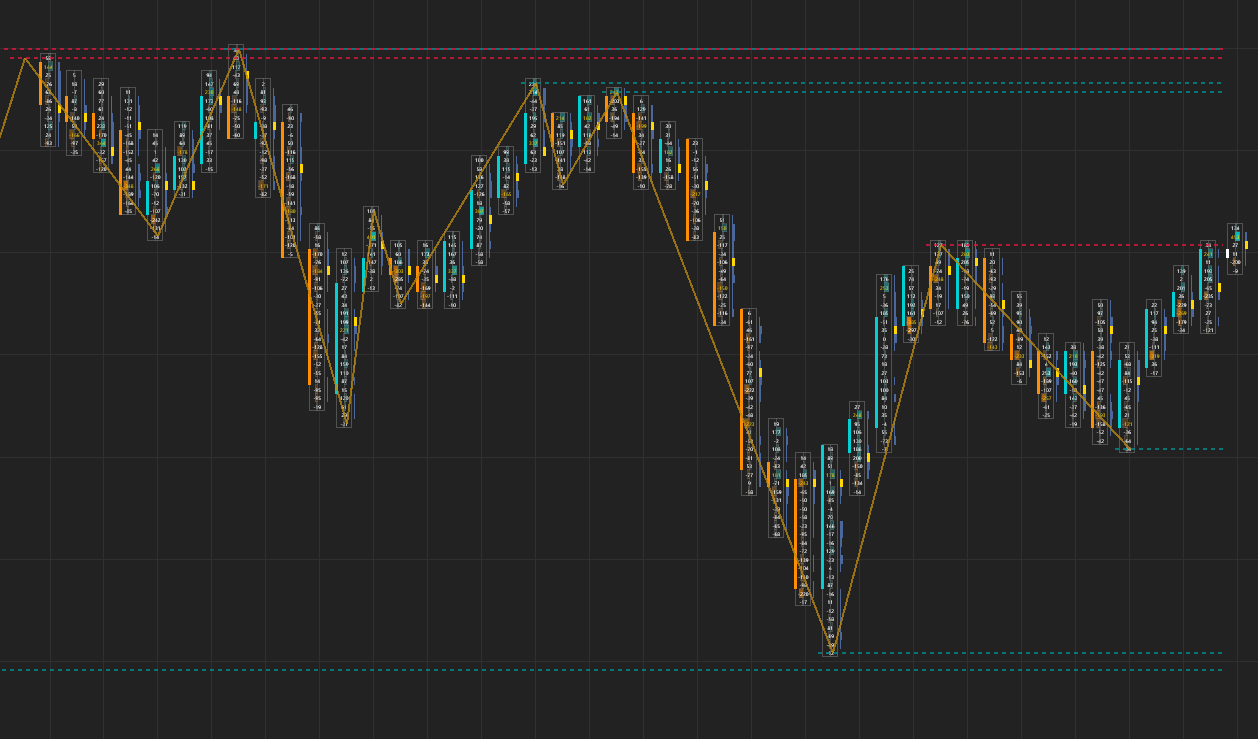
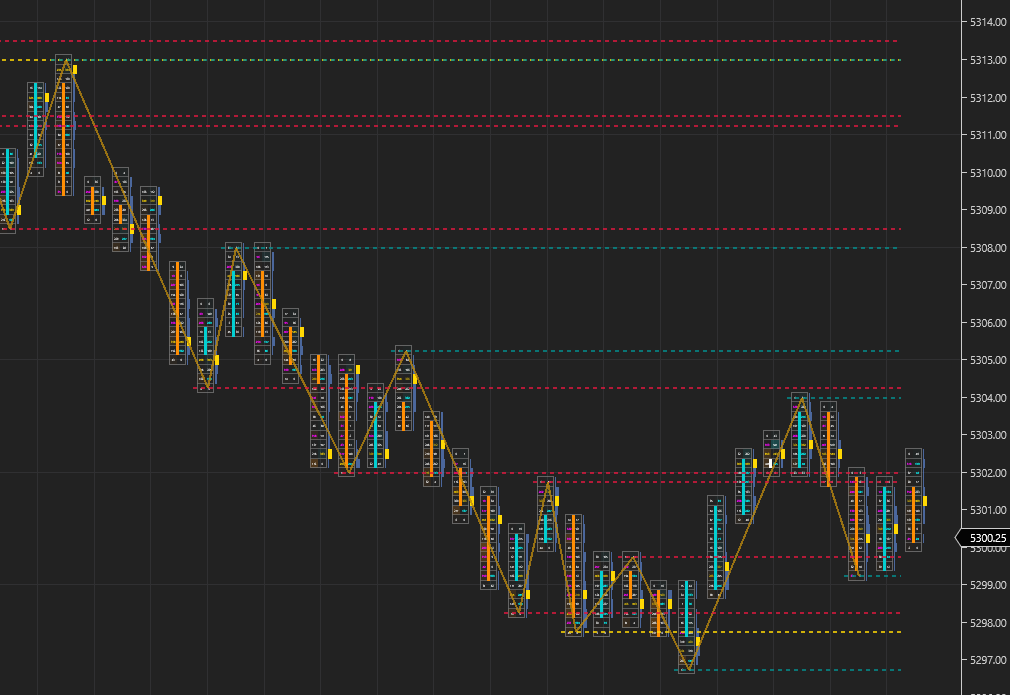
Added lookback periods

diff --git a/OpenAutoTrendSupportResistance.cs b/OpenAutoTrendSupportResistance.cs
@@ -20,6 +20,7 @@ namespace NinjaTrader.NinjaScript.Indicators
         public bool IsHigh { get; set; }
         public bool DisplayLevel { get; set; }
         public bool IsLevelTested { get; set; }
+        public bool IsLevelBroken { get; set; }
 
         public PivotPoint(int barNumber, double price, double close, bool isHigh)
         {
@@ -29,6 +30,7 @@ namespace NinjaTrader.NinjaScript.Indicators
             IsHigh = isHigh;
             DisplayLevel = true;
             IsLevelTested = false;
+            IsLevelBroken = false;
         }
     }
 
@@ -39,6 +41,7 @@ namespace NinjaTrader.NinjaScript.Indicators
         private Brush _trendLineColor;
         private Brush _levelLineColor;
         private Brush _testLineColor;
+        private Brush _brokenLineColor;
 
         private List<PivotPoint> _pivots = new List<PivotPoint>();
         private PivotPoint _currentPivot = null;
@@ -111,12 +114,36 @@ namespace NinjaTrader.NinjaScript.Indicators
         }
 
         [NinjaScriptProperty]
-        [Display(Name = "Trend Line Opacity", Description = "The opacity for the trend line. (0 to 255)", Order = 7, GroupName = GROUP_NAME)]
+        [XmlIgnore]
+        [Display(Name = "Broken Level Line Color", Description = "The broken level line color.", Order = 7, GroupName = GROUP_NAME)]
+        public Brush BrokenLevelLineColor
+        {
+            get { return _brokenLineColor; }
+            set { _brokenLineColor = value; }
+        }
+
+        [Browsable(false)]
+        public string BrokenLevelLineColorSerialize
+        {
+            get { return Serialize.BrushToString(_brokenLineColor); }
+            set { _brokenLineColor = Serialize.StringToBrush(value); }
+        }
+
+        [NinjaScriptProperty]
+        [Display(Name = "Trend Line Opacity", Description = "The opacity for the trend line. (0 to 255)", Order = 8, GroupName = GROUP_NAME)]
         public byte TrendLineOpacity { get; set; }
 
         [NinjaScriptProperty]
-        [Display(Name = "Level Line Opacity", Description = "The opacity for the level line and test level line. (0 to 255)", Order = 8, GroupName = GROUP_NAME)]
+        [Display(Name = "Level Line Opacity", Description = "The opacity for the level line and test level line. (0 to 255)", Order = 9, GroupName = GROUP_NAME)]
         public byte LevelLineOpacity { get; set; }
+
+        [NinjaScriptProperty]
+        [Display(Name = "Lookback Period SR Levels", Description = "Untested, tested and broken pivot points will display back to this value. If zero, only untested and tested will display.", Order = 10, GroupName = GROUP_NAME)]
+        public int LookbackPeriodSRLevels { get; set; }
+
+        [NinjaScriptProperty]
+        [Display(Name = "Lookback Period Broken SR Levels", Description = "Broken pivot points will display back to this value. If zero, no broken levels will display.", Order = 11, GroupName = GROUP_NAME)]
+        public int LookbackPeriodBrokenSRLevels { get; set; }
 
         protected override void OnStateChange()
         {
@@ -145,7 +172,11 @@ namespace NinjaTrader.NinjaScript.Indicators
 
                 TrendLineColor = Brushes.DarkGoldenrod;
                 LevelLineColor = Brushes.DarkCyan;
-                TestLevelLineColor = Brushes.Crimson;
+                TestLevelLineColor = Brushes.Gold;
+                BrokenLevelLineColor = Brushes.Crimson;
+
+                LookbackPeriodSRLevels = 0;
+                LookbackPeriodBrokenSRLevels = 50;
             }
             else if (State == State.DataLoaded)
             {
@@ -209,11 +240,13 @@ namespace NinjaTrader.NinjaScript.Indicators
                 // Check for resistance
                 else if (pivot.IsHigh && previousHigh > pivot.Price + _requiredTicksForBroken)
                 {
+                    pivot.IsLevelBroken = true;
                     pivot.DisplayLevel = false;
                 }
                 // Check for support
                 else if (!pivot.IsHigh && previousLow < pivot.Price - _requiredTicksForBroken)
                 {
+                    pivot.IsLevelBroken = true;
                     pivot.DisplayLevel = false;
                 }
             }
@@ -265,9 +298,11 @@ namespace NinjaTrader.NinjaScript.Indicators
             var trendLineColor = ConvertToDxColor(TrendLineColor, TrendLineOpacity);
             var levelLineColor = ConvertToDxColor(LevelLineColor, LevelLineOpacity);
             var testLineColor = ConvertToDxColor(TestLevelLineColor, LevelLineOpacity);
+            var brokenLineColor = ConvertToDxColor(BrokenLevelLineColor, LevelLineOpacity);
 
             using (var levelLineBrush = new SharpDX.Direct2D1.SolidColorBrush(RenderTarget, levelLineColor))
-            using (var brokenLineBrush = new SharpDX.Direct2D1.SolidColorBrush(RenderTarget, testLineColor))
+            using (var testLineBrush = new SharpDX.Direct2D1.SolidColorBrush(RenderTarget, testLineColor))
+            using (var brokenLineBrush = new SharpDX.Direct2D1.SolidColorBrush(RenderTarget, brokenLineColor))
             using (SharpDX.Direct2D1.SolidColorBrush dxBrush = new SharpDX.Direct2D1.SolidColorBrush(RenderTarget, trendLineColor))
             {
                 if (DisplayTrendLine)
@@ -288,11 +323,40 @@ namespace NinjaTrader.NinjaScript.Indicators
 
                 if (DisplayLevels)
                 {
-                    foreach (var pivot in _pivots)
+                    // Display all pivots up to LookbackPeriodSRLevels
+                    if (LookbackPeriodSRLevels != 0)
                     {
-                        if (pivot.DisplayLevel)
+                        foreach (var pivot in _pivots)
                         {
-                            DrawHorizontalLine(chartControl, chartScale, pivot, pivot.IsLevelTested ? brokenLineBrush : levelLineBrush);
+                            if (pivot.BarNumber >= CurrentBar - LookbackPeriodSRLevels && pivot.BarNumber <= CurrentBar)
+                            {
+                                if (pivot.IsLevelBroken)
+                                {
+                                    DrawHorizontalLine(chartControl, chartScale, pivot, brokenLineBrush);
+                                }
+                                else
+                                {
+                                    DrawHorizontalLine(chartControl, chartScale, pivot, pivot.IsLevelTested ? testLineBrush : levelLineBrush);
+                                }
+                            }
+                        }
+                    }
+                    // Display only untested and tested pivots
+                    else
+                    {
+                        foreach (var pivot in _pivots)
+                        {
+                            if (pivot.BarNumber >= CurrentBar - LookbackPeriodBrokenSRLevels && pivot.BarNumber <= CurrentBar || pivot.DisplayLevel)
+                            {
+                                if (pivot.IsLevelBroken)
+                                {
+                                    DrawHorizontalLine(chartControl, chartScale, pivot, brokenLineBrush);
+                                }
+                                else
+                                {
+                                    DrawHorizontalLine(chartControl, chartScale, pivot, pivot.IsLevelTested ? testLineBrush : levelLineBrush);
+                                }
+                            }
                         }
                     }
                 }
@@ -333,18 +397,18 @@ namespace NinjaTrader.NinjaScript.Indicators
 	public partial class Indicator : NinjaTrader.Gui.NinjaScript.IndicatorRenderBase
 	{
 		private OpenAutoTrendSupportResistance[] cacheOpenAutoTrendSupportResistance;
-		public OpenAutoTrendSupportResistance OpenAutoTrendSupportResistance(float rightOffset, float requiredTicksForBroken, bool displayTrendLine, bool displayLevels, Brush trendLineColor, Brush levelLineColor, Brush testLevelLineColor, byte trendLineOpacity, byte levelLineOpacity)
+		public OpenAutoTrendSupportResistance OpenAutoTrendSupportResistance(float rightOffset, float requiredTicksForBroken, bool displayTrendLine, bool displayLevels, Brush trendLineColor, Brush levelLineColor, Brush testLevelLineColor, Brush brokenLevelLineColor, byte trendLineOpacity, byte levelLineOpacity, int lookbackPeriodSRLevels, int lookbackPeriodBrokenSRLevels)
 		{
-			return OpenAutoTrendSupportResistance(Input, rightOffset, requiredTicksForBroken, displayTrendLine, displayLevels, trendLineColor, levelLineColor, testLevelLineColor, trendLineOpacity, levelLineOpacity);
+			return OpenAutoTrendSupportResistance(Input, rightOffset, requiredTicksForBroken, displayTrendLine, displayLevels, trendLineColor, levelLineColor, testLevelLineColor, brokenLevelLineColor, trendLineOpacity, levelLineOpacity, lookbackPeriodSRLevels, lookbackPeriodBrokenSRLevels);
 		}
 
-		public OpenAutoTrendSupportResistance OpenAutoTrendSupportResistance(ISeries<double> input, float rightOffset, float requiredTicksForBroken, bool displayTrendLine, bool displayLevels, Brush trendLineColor, Brush levelLineColor, Brush testLevelLineColor, byte trendLineOpacity, byte levelLineOpacity)
+		public OpenAutoTrendSupportResistance OpenAutoTrendSupportResistance(ISeries<double> input, float rightOffset, float requiredTicksForBroken, bool displayTrendLine, bool displayLevels, Brush trendLineColor, Brush levelLineColor, Brush testLevelLineColor, Brush brokenLevelLineColor, byte trendLineOpacity, byte levelLineOpacity, int lookbackPeriodSRLevels, int lookbackPeriodBrokenSRLevels)
 		{
 			if (cacheOpenAutoTrendSupportResistance != null)
 				for (int idx = 0; idx < cacheOpenAutoTrendSupportResistance.Length; idx++)
-					if (cacheOpenAutoTrendSupportResistance[idx] != null && cacheOpenAutoTrendSupportResistance[idx].RightOffset == rightOffset && cacheOpenAutoTrendSupportResistance[idx].RequiredTicksForBroken == requiredTicksForBroken && cacheOpenAutoTrendSupportResistance[idx].DisplayTrendLine == displayTrendLine && cacheOpenAutoTrendSupportResistance[idx].DisplayLevels == displayLevels && cacheOpenAutoTrendSupportResistance[idx].TrendLineColor == trendLineColor && cacheOpenAutoTrendSupportResistance[idx].LevelLineColor == levelLineColor && cacheOpenAutoTrendSupportResistance[idx].TestLevelLineColor == testLevelLineColor && cacheOpenAutoTrendSupportResistance[idx].TrendLineOpacity == trendLineOpacity && cacheOpenAutoTrendSupportResistance[idx].LevelLineOpacity == levelLineOpacity && cacheOpenAutoTrendSupportResistance[idx].EqualsInput(input))
+					if (cacheOpenAutoTrendSupportResistance[idx] != null && cacheOpenAutoTrendSupportResistance[idx].RightOffset == rightOffset && cacheOpenAutoTrendSupportResistance[idx].RequiredTicksForBroken == requiredTicksForBroken && cacheOpenAutoTrendSupportResistance[idx].DisplayTrendLine == displayTrendLine && cacheOpenAutoTrendSupportResistance[idx].DisplayLevels == displayLevels && cacheOpenAutoTrendSupportResistance[idx].TrendLineColor == trendLineColor && cacheOpenAutoTrendSupportResistance[idx].LevelLineColor == levelLineColor && cacheOpenAutoTrendSupportResistance[idx].TestLevelLineColor == testLevelLineColor && cacheOpenAutoTrendSupportResistance[idx].BrokenLevelLineColor == brokenLevelLineColor && cacheOpenAutoTrendSupportResistance[idx].TrendLineOpacity == trendLineOpacity && cacheOpenAutoTrendSupportResistance[idx].LevelLineOpacity == levelLineOpacity && cacheOpenAutoTrendSupportResistance[idx].LookbackPeriodSRLevels == lookbackPeriodSRLevels && cacheOpenAutoTrendSupportResistance[idx].LookbackPeriodBrokenSRLevels == lookbackPeriodBrokenSRLevels && cacheOpenAutoTrendSupportResistance[idx].EqualsInput(input))
 						return cacheOpenAutoTrendSupportResistance[idx];
-			return CacheIndicator<OpenAutoTrendSupportResistance>(new OpenAutoTrendSupportResistance(){ RightOffset = rightOffset, RequiredTicksForBroken = requiredTicksForBroken, DisplayTrendLine = displayTrendLine, DisplayLevels = displayLevels, TrendLineColor = trendLineColor, LevelLineColor = levelLineColor, TestLevelLineColor = testLevelLineColor, TrendLineOpacity = trendLineOpacity, LevelLineOpacity = levelLineOpacity }, input, ref cacheOpenAutoTrendSupportResistance);
+			return CacheIndicator<OpenAutoTrendSupportResistance>(new OpenAutoTrendSupportResistance(){ RightOffset = rightOffset, RequiredTicksForBroken = requiredTicksForBroken, DisplayTrendLine = displayTrendLine, DisplayLevels = displayLevels, TrendLineColor = trendLineColor, LevelLineColor = levelLineColor, TestLevelLineColor = testLevelLineColor, BrokenLevelLineColor = brokenLevelLineColor, TrendLineOpacity = trendLineOpacity, LevelLineOpacity = levelLineOpacity, LookbackPeriodSRLevels = lookbackPeriodSRLevels, LookbackPeriodBrokenSRLevels = lookbackPeriodBrokenSRLevels }, input, ref cacheOpenAutoTrendSupportResistance);
 		}
 	}
 }
@@ -353,14 +417,14 @@ namespace NinjaTrader.NinjaScript.MarketAnalyzerColumns
 {
 	public partial class MarketAnalyzerColumn : MarketAnalyzerColumnBase
 	{
-		public Indicators.OpenAutoTrendSupportResistance OpenAutoTrendSupportResistance(float rightOffset, float requiredTicksForBroken, bool displayTrendLine, bool displayLevels, Brush trendLineColor, Brush levelLineColor, Brush testLevelLineColor, byte trendLineOpacity, byte levelLineOpacity)
+		public Indicators.OpenAutoTrendSupportResistance OpenAutoTrendSupportResistance(float rightOffset, float requiredTicksForBroken, bool displayTrendLine, bool displayLevels, Brush trendLineColor, Brush levelLineColor, Brush testLevelLineColor, Brush brokenLevelLineColor, byte trendLineOpacity, byte levelLineOpacity, int lookbackPeriodSRLevels, int lookbackPeriodBrokenSRLevels)
 		{
-			return indicator.OpenAutoTrendSupportResistance(Input, rightOffset, requiredTicksForBroken, displayTrendLine, displayLevels, trendLineColor, levelLineColor, testLevelLineColor, trendLineOpacity, levelLineOpacity);
+			return indicator.OpenAutoTrendSupportResistance(Input, rightOffset, requiredTicksForBroken, displayTrendLine, displayLevels, trendLineColor, levelLineColor, testLevelLineColor, brokenLevelLineColor, trendLineOpacity, levelLineOpacity, lookbackPeriodSRLevels, lookbackPeriodBrokenSRLevels);
 		}
 
-		public Indicators.OpenAutoTrendSupportResistance OpenAutoTrendSupportResistance(ISeries<double> input , float rightOffset, float requiredTicksForBroken, bool displayTrendLine, bool displayLevels, Brush trendLineColor, Brush levelLineColor, Brush testLevelLineColor, byte trendLineOpacity, byte levelLineOpacity)
+		public Indicators.OpenAutoTrendSupportResistance OpenAutoTrendSupportResistance(ISeries<double> input , float rightOffset, float requiredTicksForBroken, bool displayTrendLine, bool displayLevels, Brush trendLineColor, Brush levelLineColor, Brush testLevelLineColor, Brush brokenLevelLineColor, byte trendLineOpacity, byte levelLineOpacity, int lookbackPeriodSRLevels, int lookbackPeriodBrokenSRLevels)
 		{
-			return indicator.OpenAutoTrendSupportResistance(input, rightOffset, requiredTicksForBroken, displayTrendLine, displayLevels, trendLineColor, levelLineColor, testLevelLineColor, trendLineOpacity, levelLineOpacity);
+			return indicator.OpenAutoTrendSupportResistance(input, rightOffset, requiredTicksForBroken, displayTrendLine, displayLevels, trendLineColor, levelLineColor, testLevelLineColor, brokenLevelLineColor, trendLineOpacity, levelLineOpacity, lookbackPeriodSRLevels, lookbackPeriodBrokenSRLevels);
 		}
 	}
 }
@@ -369,14 +433,14 @@ namespace NinjaTrader.NinjaScript.Strategies
 {
 	public partial class Strategy : NinjaTrader.Gui.NinjaScript.StrategyRenderBase
 	{
-		public Indicators.OpenAutoTrendSupportResistance OpenAutoTrendSupportResistance(float rightOffset, float requiredTicksForBroken, bool displayTrendLine, bool displayLevels, Brush trendLineColor, Brush levelLineColor, Brush testLevelLineColor, byte trendLineOpacity, byte levelLineOpacity)
+		public Indicators.OpenAutoTrendSupportResistance OpenAutoTrendSupportResistance(float rightOffset, float requiredTicksForBroken, bool displayTrendLine, bool displayLevels, Brush trendLineColor, Brush levelLineColor, Brush testLevelLineColor, Brush brokenLevelLineColor, byte trendLineOpacity, byte levelLineOpacity, int lookbackPeriodSRLevels, int lookbackPeriodBrokenSRLevels)
 		{
-			return indicator.OpenAutoTrendSupportResistance(Input, rightOffset, requiredTicksForBroken, displayTrendLine, displayLevels, trendLineColor, levelLineColor, testLevelLineColor, trendLineOpacity, levelLineOpacity);
+			return indicator.OpenAutoTrendSupportResistance(Input, rightOffset, requiredTicksForBroken, displayTrendLine, displayLevels, trendLineColor, levelLineColor, testLevelLineColor, brokenLevelLineColor, trendLineOpacity, levelLineOpacity, lookbackPeriodSRLevels, lookbackPeriodBrokenSRLevels);
 		}
 
-		public Indicators.OpenAutoTrendSupportResistance OpenAutoTrendSupportResistance(ISeries<double> input , float rightOffset, float requiredTicksForBroken, bool displayTrendLine, bool displayLevels, Brush trendLineColor, Brush levelLineColor, Brush testLevelLineColor, byte trendLineOpacity, byte levelLineOpacity)
+		public Indicators.OpenAutoTrendSupportResistance OpenAutoTrendSupportResistance(ISeries<double> input , float rightOffset, float requiredTicksForBroken, bool displayTrendLine, bool displayLevels, Brush trendLineColor, Brush levelLineColor, Brush testLevelLineColor, Brush brokenLevelLineColor, byte trendLineOpacity, byte levelLineOpacity, int lookbackPeriodSRLevels, int lookbackPeriodBrokenSRLevels)
 		{
-			return indicator.OpenAutoTrendSupportResistance(input, rightOffset, requiredTicksForBroken, displayTrendLine, displayLevels, trendLineColor, levelLineColor, testLevelLineColor, trendLineOpacity, levelLineOpacity);
+			return indicator.OpenAutoTrendSupportResistance(input, rightOffset, requiredTicksForBroken, displayTrendLine, displayLevels, trendLineColor, levelLineColor, testLevelLineColor, brokenLevelLineColor, trendLineOpacity, levelLineOpacity, lookbackPeriodSRLevels, lookbackPeriodBrokenSRLevels);
 		}
 	}
 }

diff --git a/README.md b/README.md
@@ -17,5 +17,12 @@ For usage, you can download the zip containing the word import in the release pa
 - Trend Line Color - The color for the trend line.
 - Level Line Color - The color for the support and resistance levels.
 - Test Level Line Color - The color for the tested support and resistance levels.
+- Broken Level Line Color - The color for the broken support and resistance levels.
 - Trend Line Opacity - The opacity for the trend line.
 - Level Line Opacity - The opacity for the support and resistance levels.
+- Lookback Period SR Levels - Untested, tested and broken pivot points will display back to this value. If zero, only untested and tested will display. Use this if you want to display all levels back to a certain amount of bars.
+- Lookback Period Broken SR Levels - Broken pivot points will display back to this value. If zero, no broken levels will display. Use this if you want to display broken levels back to a certain amount of bars, but still want to show all the untested and tested levels.
+
+# Issues
+
+Sometimes NinjaTrader will complain about an import failed. You can just open the zip file from the release and copy the `OpenAutoTrendSupportResistance` file into the Indicators folder on your computer after removing the previous file. It's normally located at: `C:\Users\<username>\Documents\NinjaTrader 8\bin\Custom\Indicators`. Afterwards, open NinjaTrader and click `New` > `NinjaScript Editor`. Click the NinjaScript Editor and press `F5`. It'll take a few seconds and you'll hear a sound. The icon at the bottom left corner of it will disappear when it's done compiling. Close the NinjaScript Editor and you should be good to go.
